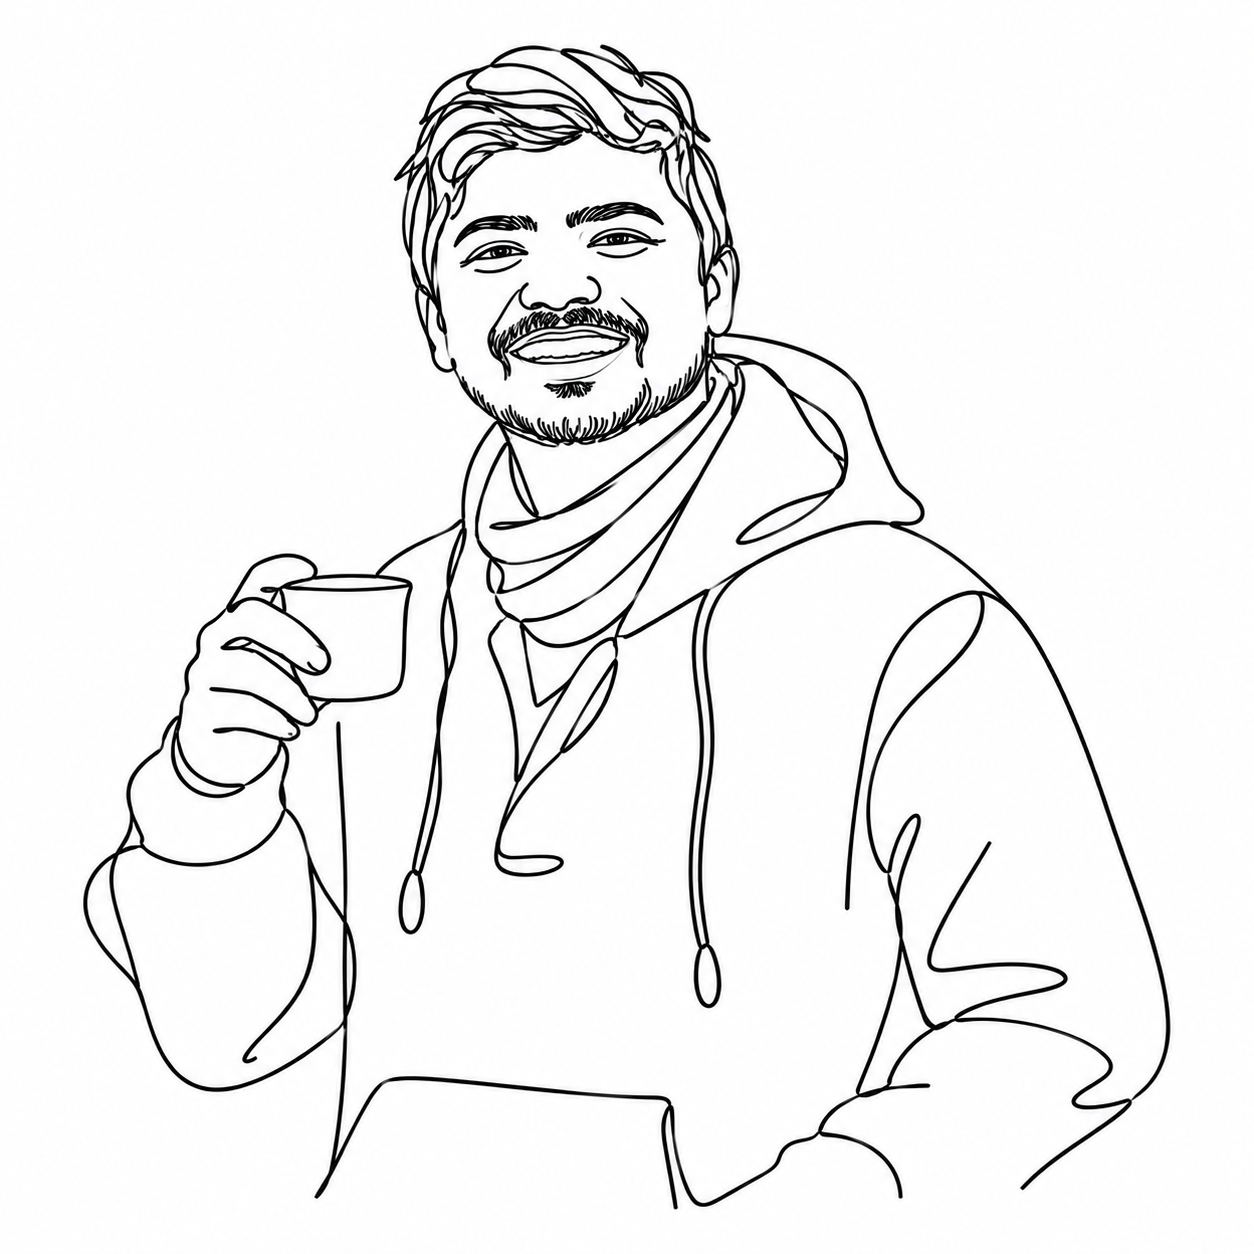
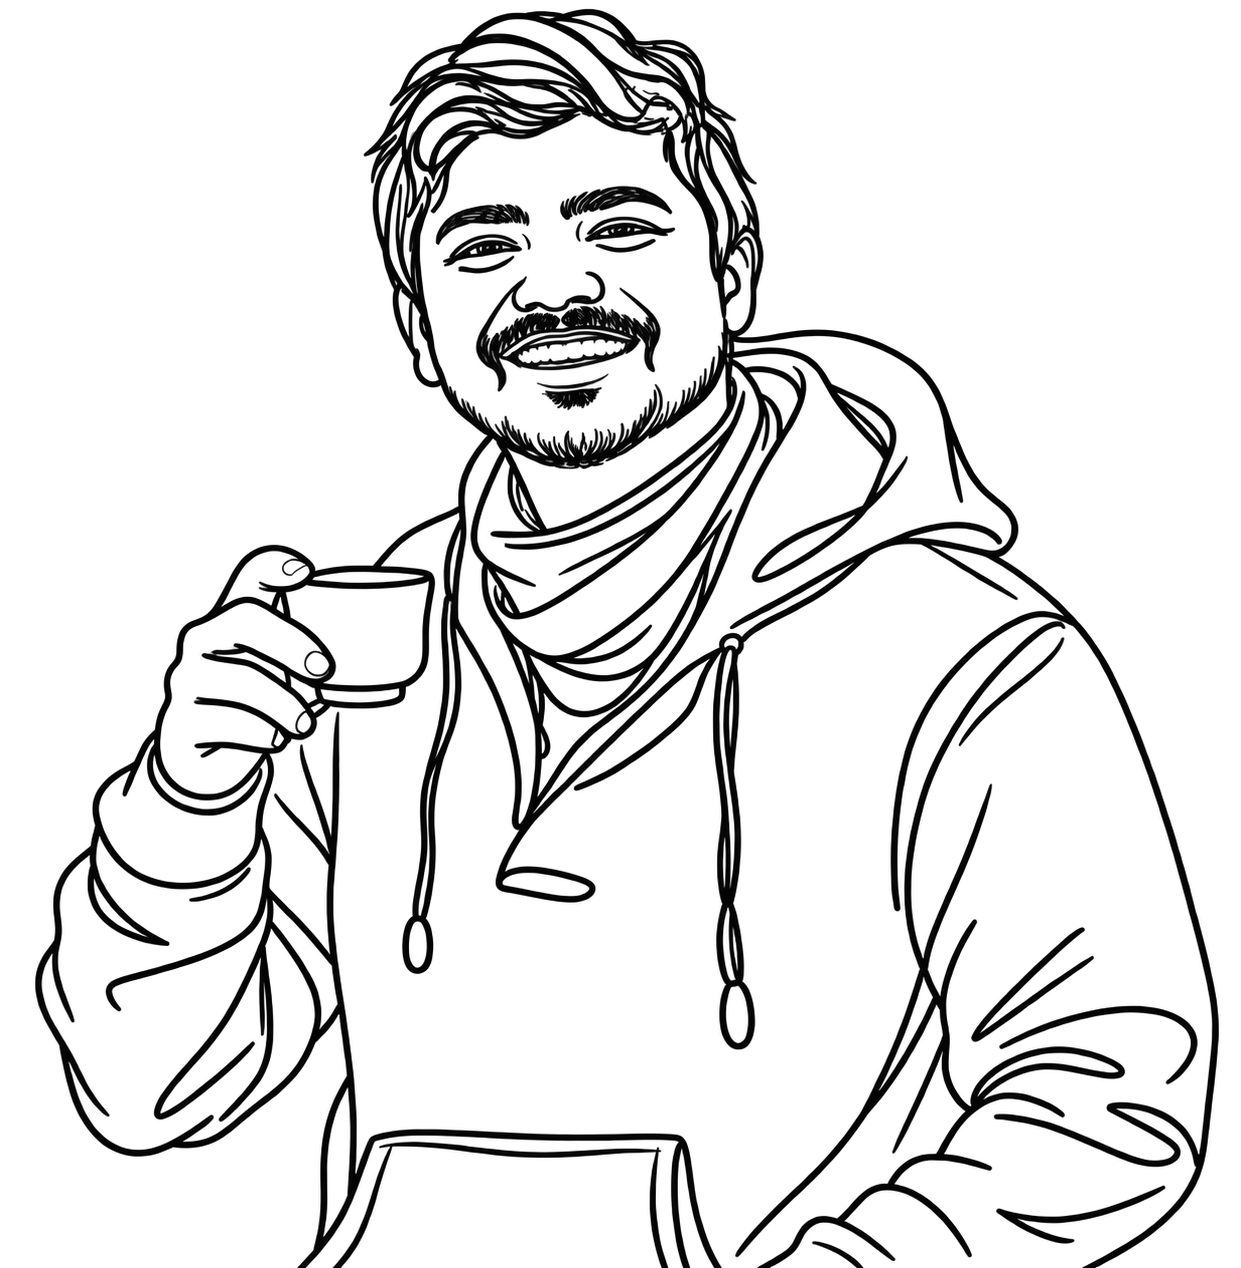
Switch testimonial cards to black with accent-coloured line art
Card background changed from grey (--muted) to black (--paper). The
illustrations (black strokes on transparent PNGs) are now used as CSS
masks on a solid --accent background instead of rendered as plain
<img> elements, so the line art itself reads in the accent colour.

Also picks up the updated RJ.png the user replaced.

Claude-Session: https://claude.ai/code/session_012zXiA3oLkVodnUUQaffaNi

diff --git a/index.html b/index.html
@@ -125,7 +125,7 @@
       <div class="testimonial-grid reveal">
         <button class="testimonial-card" type="button" aria-expanded="false" aria-label="Read testimonial — placeholder, Role at Company">
           <span class="testimonial-media">
-            <img class="testimonial-photo" src="Images/PG.png" alt="" />
+            <span class="testimonial-photo" style="--photo: url('Images/PG.png');" aria-hidden="true"></span>
             <span class="testimonial-facemap" aria-hidden="true"></span>
           </span>
           <span class="testimonial-reveal">
@@ -138,7 +138,7 @@
 
         <button class="testimonial-card" type="button" aria-expanded="false" aria-label="Read testimonial — placeholder, Role at Company">
           <span class="testimonial-media">
-            <img class="testimonial-photo" src="Images/RJ.png" alt="" />
+            <span class="testimonial-photo" style="--photo: url('Images/RJ.png');" aria-hidden="true"></span>
             <span class="testimonial-facemap" aria-hidden="true"></span>
           </span>
           <span class="testimonial-reveal">
@@ -151,7 +151,7 @@
 
         <button class="testimonial-card" type="button" aria-expanded="false" aria-label="Read testimonial — placeholder, Role at Company">
           <span class="testimonial-media">
-            <img class="testimonial-photo" src="Images/SK.png" alt="" />
+            <span class="testimonial-photo" style="--photo: url('Images/SK.png');" aria-hidden="true"></span>
             <span class="testimonial-facemap" aria-hidden="true"></span>
           </span>
           <span class="testimonial-reveal">

diff --git a/styles.css b/styles.css
@@ -600,7 +600,7 @@ section + section { border-top: 1px solid var(--line); }
   margin-left: -4rem;
   border-radius: 20px;
   border: 1.5px solid var(--accent);
-  background: var(--muted); /* opaque — solid portfolio grey, not a translucent wash */
+  background: var(--paper); /* black */
   box-shadow: 0 16px 32px rgba(0, 0, 0, 0.35);
   overflow: hidden;
   cursor: pointer;
@@ -649,12 +649,22 @@ section + section { border-top: 1px solid var(--line); }
 }
 
 .testimonial-media { position: absolute; inset: 0; }
-/* Photo fills the bottom 3/4 of the card, leaving the top as negative space */
+/* Illustration fills the bottom 3/4 of the card, leaving the top as negative
+   space. The source PNG is black line art on a transparent background, used
+   here as a mask so the strokes render in the accent colour instead. */
 .testimonial-photo {
   position: absolute; left: 0; right: 0; bottom: 0;
   width: 100%; height: 75%;
-  object-fit: cover;
   display: block;
+  background-color: var(--accent);
+  -webkit-mask-image: var(--photo);
+  mask-image: var(--photo);
+  -webkit-mask-size: cover;
+  mask-size: cover;
+  -webkit-mask-repeat: no-repeat;
+  mask-repeat: no-repeat;
+  -webkit-mask-position: center bottom;
+  mask-position: center bottom;
 }
 
 /* Hover state — the same halftone dot screen used on the graphics tiles
